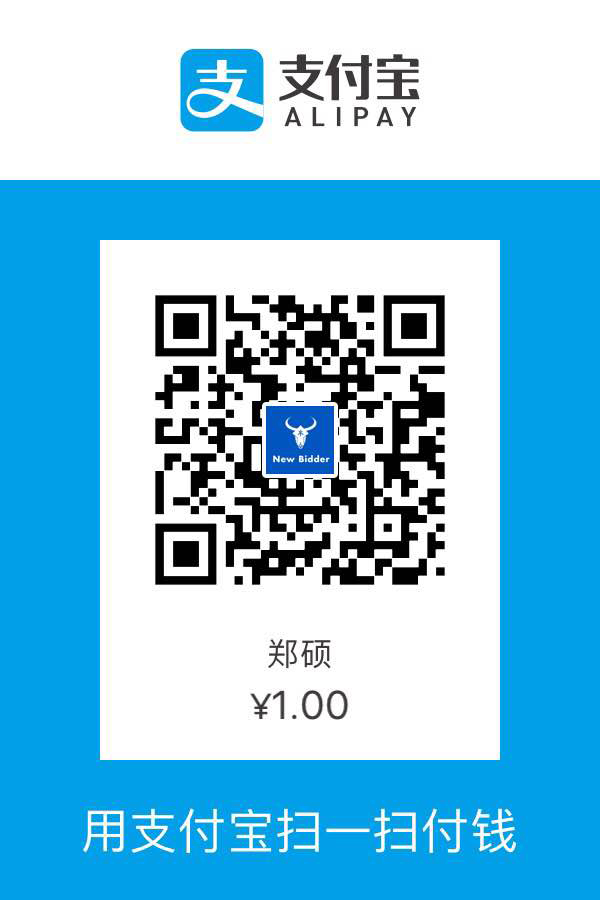
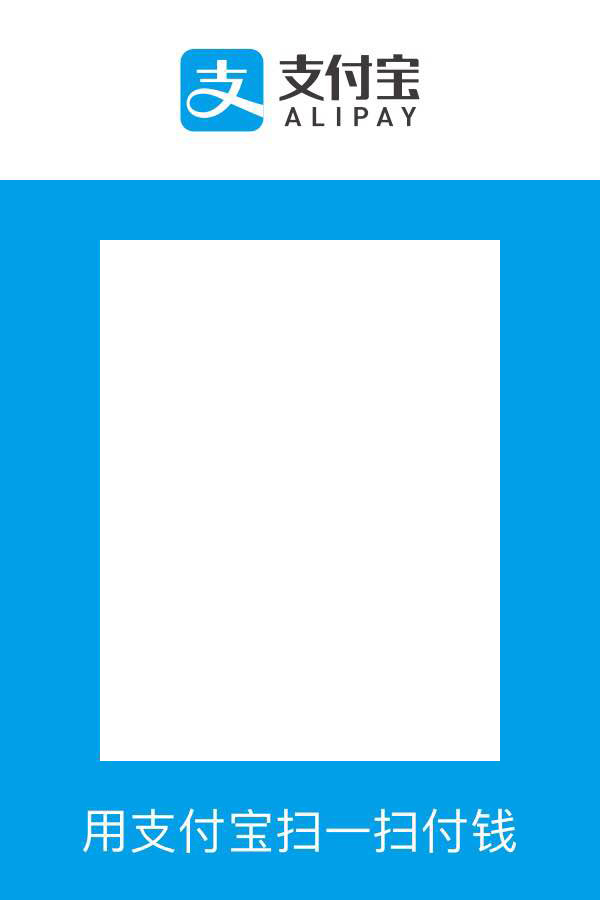
add qrcode

Changed region(s): [[0.24, 0.3111, 0.75, 0.6533], [0.84, 0.28, 0.87, 0.8089], [0.42, 0.6844, 0.6, 0.8089]]

diff --git a/Front/src/tpl/edit-change-paln-dialog.html b/Front/src/tpl/edit-change-paln-dialog.html
@@ -44,14 +44,16 @@
                 </label>
               </div>
               <div class="alipay-code">
-                <img src="../assets/img/plan_0.jpg" ng-show="plans[0].id == id && payType == 0"/>
-                <img src="../assets/img/plan_1.jpg" ng-show="plans[1].id == id && payType == 0"/>
+                <div class="alipay-box" ng-show="payType == 0">
+                  <img src="../assets/img/plan_0.jpg"/>
+                  <qr type-number="2" correction-level="'M'" size="100" text="planUrl" image="true"></qr>
+                </div>
+                <!-- <img src="../assets/img/plan_1.jpg" ng-show="plans[1].id == id && payType == 0"/>
                 <img src="../assets/img/plan_2.jpg" ng-show="plans[2].id == id && payType == 0"/>
-                <img src="../assets/img/plan_3.jpg" ng-show="plans[3].id == id && payType == 0"/>
+                <img src="../assets/img/plan_3.jpg" ng-show="plans[3].id == id && payType == 0"/> -->
               </div>
-              <p ng-show="payType == 0" style="color:#666;text-align: center;">Please contact the Skype: <b>live:support_44609</b><br> to open your account after payment</p>
               <div ng-show="payType == 1">
-                
+
               </div>
             </div>
           </div>

diff --git a/Front/src/assets/css/my.css b/Front/src/assets/css/my.css
@@ -3003,3 +3003,21 @@ md-autocomplete .md-show-clear-button button{width:22px;height:22px;margin:auto 
 .md-whiteframe-z1{border-radius:3px;border:1px solid #c9c9cf;box-shadow:none;}
 .md-button.md-default-theme.md-raised:not([disabled]):hover, .md-button.md-raised:not([disabled]):hover{background:#2770ea;}
 .w-xxl{width:400px;}
+
+.alipay-box {
+  position: relative;
+  display: inline-block;
+}
+
+.alipay-box qr {
+  position: absolute;
+  top: 122px;
+  left: 50%;
+  margin-left: -60px;
+  width: 120px;
+}
+
+.alipay-box qr img {
+  width: 120px;
+}
+>>>>>>> add qrcode

diff --git a/Front/src/index.html b/Front/src/index.html
@@ -67,6 +67,8 @@
 <script src="../bower_components/angular-awesome-slider/dist/angular-awesome-slider.min.js"></script>
 <script src="../bower_components/angular-momentjs/angular-momentjs.js"></script>
 <script src="../bower_components/angular-permission/dist/angular-permission.js"></script>
+<script src="../bower_components/qrcode/lib/qrcode.min.js"></script>
+<script src="../bower_components/angular-qr/angular-qr.min.js"></script>
 
 <!-- App -->
 <script src="js/app.js"></script>

diff --git a/Front/src/js/services/change-plan.js b/Front/src/js/services/change-plan.js
@@ -161,6 +161,8 @@
           $scope.userItem = user.data;
         });
 
+        // $scope.planUrl = 'http://baidu.com';
+
         $scope.id = this.plan.id;
         $scope.payType = "1";
         var tempPlans = angular.copy(this.plans.plan);

diff --git a/Front/src/js/app.js b/Front/src/js/app.js
@@ -26,6 +26,7 @@
     'angularAwesomeSlider',
     'angular-momentjs',
     'permission',
+    'ja.qr'
   ]);
 
 })();
